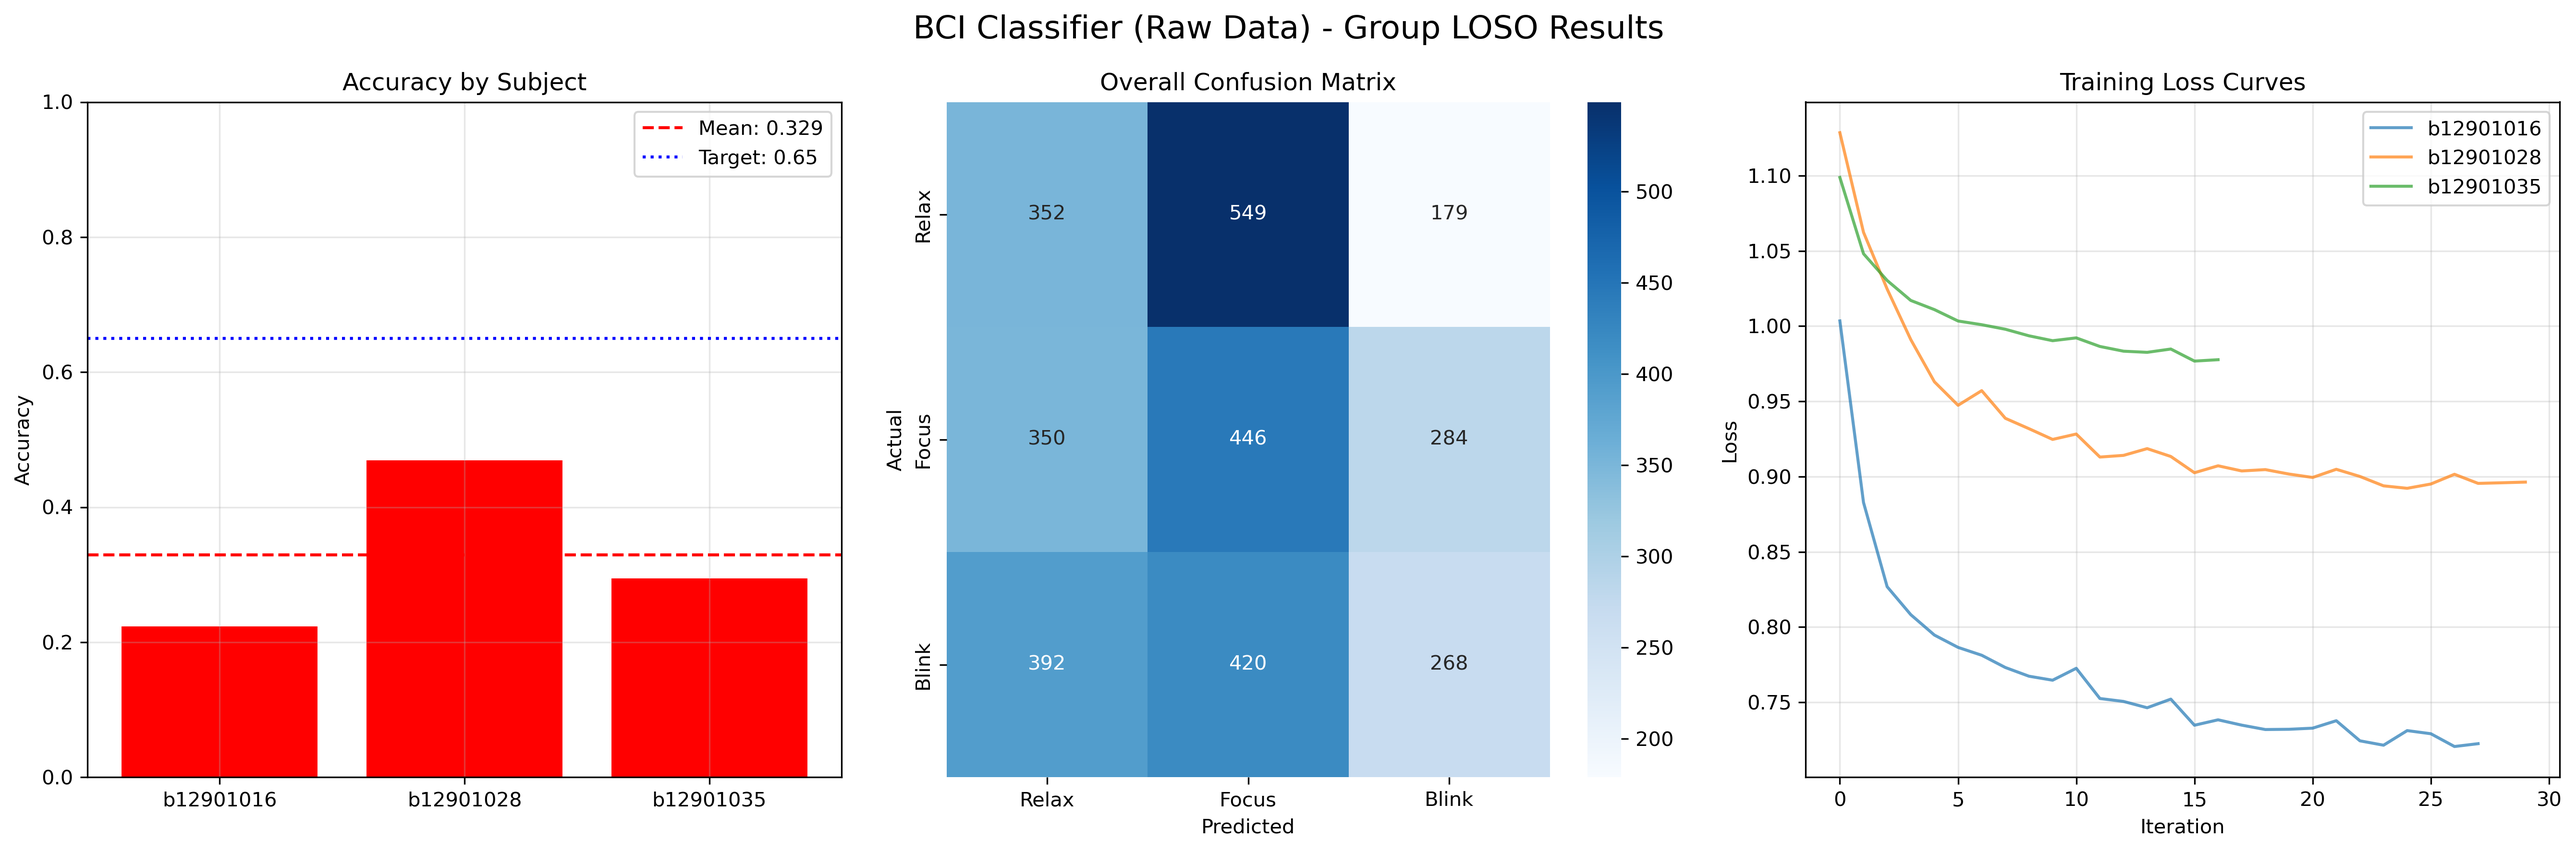
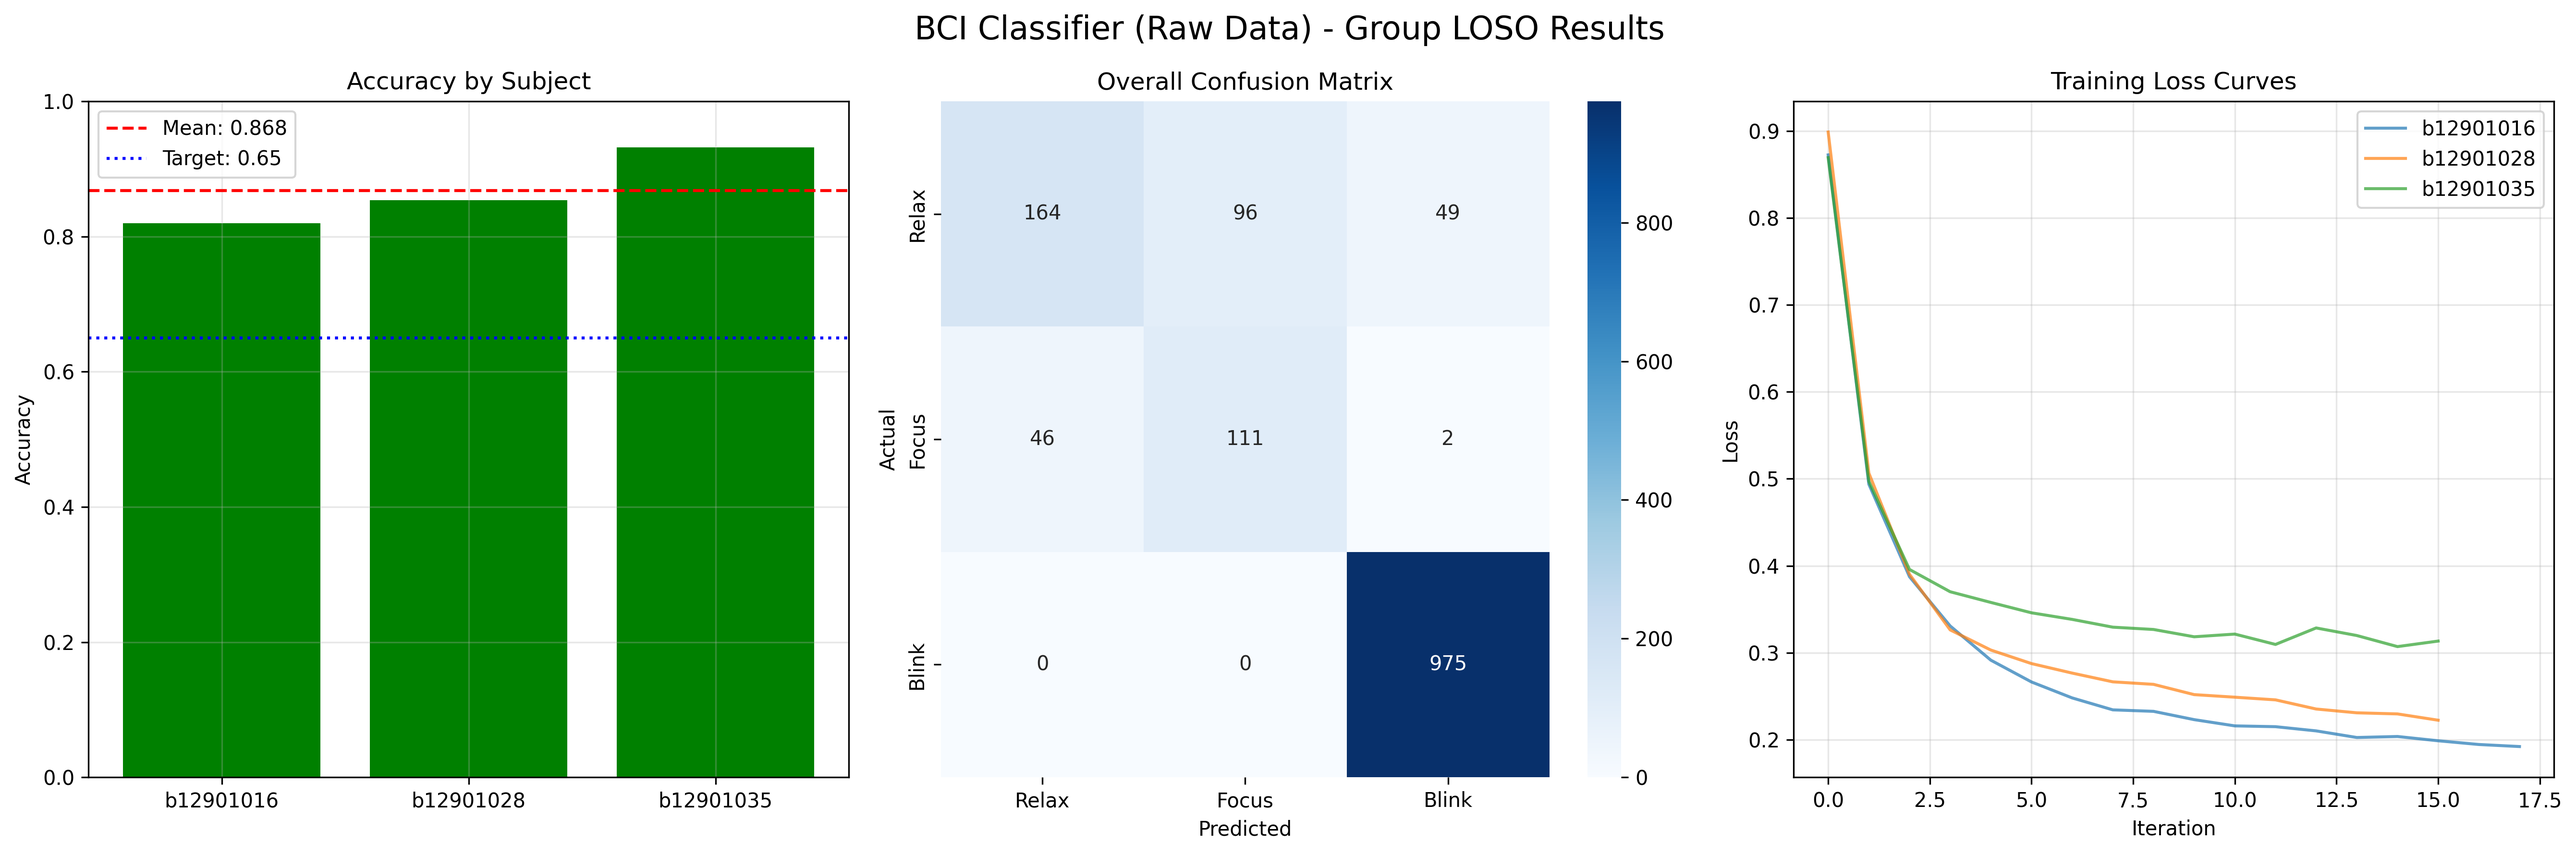
enhancing relax/focus accuracy by: log beta_alpha_ratio; more relax training data; 'Relax' if prob > 0.37

diff --git a/main.py b/main.py
@@ -45,7 +45,7 @@ class Config:
     VALIDATION_FRACTION = 0.1
     N_ITER_NO_CHANGE = 15
     SAMPLING_RATE = 512                
-    FEATURE_SELECTION = True
+    FEATURE_SELECTION = False
     N_FEATURES_SELECT = 10             # 精簡為 10 個最強比例與複雜度特徵
     RANDOM_STATE = 42
 
@@ -75,10 +75,15 @@ def create_segments(data, segment_length_samples, overlap_samples, task_type):
         peak_amp = np.max(np.abs(segment_filtered))
         
         # === 核心邏輯：依照任務進行智能過濾 ===
-        if task_type in [1, 2]: # Relax 或 Focus
+        if task_type == 1: # Relax
+            # 放寬 Relax 的標準，多收一點資料進來訓練
+            if peak_amp > 1000: 
+                start += step
+                continue 
+        elif task_type == 2: # Focus
             if peak_amp > Config.RF_MAX_THRES:
                 start += step
-                continue # 太大的是雜訊，丟棄
+                continue
                 
         elif task_type == 3:    # Blink
             # 如果這個小視窗內沒有出現足夠大的突波，代表它切到了「沒眨眼」的空白期
@@ -122,7 +127,7 @@ def extract_features(segments):
         rel_beta  = beta / total_power
         
         # 專注/放鬆黃金比例
-        beta_alpha_ratio = beta / (alpha + 1e-9)
+        beta_alpha_ratio = np.log10((beta / (alpha + 1e-9)) + 1)
         
         # 3. 輔助特徵 (主要為了完美保留 Blink 的高辨識度)
         kurt = kurtosis(seg)
@@ -216,10 +221,26 @@ class EnhancedBCIClassifier:
     def predict(self, X):
         X_scaled = self.scaler.transform(X)
         X_selected = self.feature_selector.transform(X_scaled) if self.feature_selector else X_scaled
-        raw_preds = self.model.predict(X_selected)
-        if len(raw_preds) > 5:
-            return signal.medfilt(raw_preds, kernel_size=5) 
-        return raw_preds
+        
+        # 1. 取得三個類別的機率 [Relax(0), Focus(1), Blink(2)]
+        probs = self.model.predict_proba(X_selected)
+        
+        predictions = np.zeros(len(X), dtype=int)
+        
+        # 2. 客製化門檻邏輯
+        for i in range(len(X)):
+            # 只要 Relax 的機率超過 0.35 (不用等到 0.5 或最高)，就判定為 Relax
+            if probs[i, 0] > 0.37:  
+                predictions[i] = 0
+            else:
+                # 剩下的再讓 Focus 和 Blink 去比誰機率高
+                # np.argmax(probs[i, 1:]) 會回傳 0(對應Focus) 或 1(對應Blink)，所以要 +1
+                predictions[i] = np.argmax(probs[i, 1:]) + 1
+                
+        # 3. 平滑化
+        if len(predictions) > 5:
+            return signal.medfilt(predictions, kernel_size=11) 
+        return predictions
 
 def leave_one_subject_out_validation():
     print("\nStarting Leave-One-Subject-Out (LOSO) Cross-Validation...")
@@ -245,38 +266,44 @@ def leave_one_subject_out_validation():
     return results
 
 def plot_results(results):
+    if results is None: return
     fig, axes = plt.subplots(1, 3, figsize=(18, 6))
-    fig.suptitle('BCI Classifier - Complexity & Relative Power Strategy', fontsize=16)
+    fig.suptitle('BCI Classifier (Raw Data) - Group LOSO Results', fontsize=16)
     
-    axes[0].bar(results['subject_names'], results['accuracies'], color='orange')
-    axes[0].axhline(y=np.mean(results['accuracies']), color='r', linestyle='--', label=f'Mean: {np.mean(results["accuracies"]):.3f}')
-    axes[0].axhline(y=0.65, color='b', linestyle=':', label='Target 0.65')
-    axes[0].set_ylim(0, 1)
+    # 1. Accuracy distribution
+    subject_names = results['subject_names']
+    axes[0].bar(subject_names, results['accuracies'], 
+                color=['green' if acc >= 0.7 else 'orange' if acc >= 0.65 else 'red' for acc in results['accuracies']])
     axes[0].set_title('Accuracy by Subject')
     axes[0].set_ylabel('Accuracy')
+    axes[0].axhline(y=np.mean(results['accuracies']), color='r', linestyle='--', label=f'Mean: {np.mean(results["accuracies"]):.3f}')
+    axes[0].axhline(y=0.65, color='blue', linestyle=':', label='Target: 0.65')
     axes[0].legend()
     axes[0].grid(True, alpha=0.3)
+    axes[0].set_ylim(0, 1)
     
+    # 2. Overall confusion matrix
     total_cm = np.sum(results['confusion_matrices'], axis=0)
-    sns.heatmap(total_cm, annot=True, fmt='d', cmap='Blues', ax=axes[1],
-                xticklabels=['Relax', 'Focus', 'Blink'], yticklabels=['Relax', 'Focus', 'Blink'])
+    sns.heatmap(total_cm, annot=True, fmt='d', cmap='Blues',
+                xticklabels=['Relax', 'Focus', 'Blink'], yticklabels=['Relax', 'Focus', 'Blink'], ax=axes[1])
     axes[1].set_title('Overall Confusion Matrix')
     axes[1].set_xlabel('Predicted')
     axes[1].set_ylabel('Actual')
     
-    for i, lc in enumerate(results['loss_curves']): 
-        axes[2].plot(lc, alpha=0.7, label=results['subject_names'][i])
-    axes[2].set_title('Training Loss Curves')
-    axes[2].set_xlabel('Iteration')
-    axes[2].set_ylabel('Loss')
-    if len(results['subject_names']) <= 10: 
+    # 3. Training loss curves
+    valid_loss_curves = [lc for lc in results['loss_curves'] if len(lc) > 0]
+    if valid_loss_curves:
+        for i, loss_curve in enumerate(valid_loss_curves):
+            axes[2].plot(loss_curve, alpha=0.7, label=subject_names[i])
+        axes[2].set_title('Training Loss Curves')
+        axes[2].set_xlabel('Iteration')
+        axes[2].set_ylabel('Loss')
         axes[2].legend()
-    axes[2].grid(True, alpha=0.3)
+        axes[2].grid(True, alpha=0.3)
     
     plt.tight_layout()
-    plt.savefig('bci_results_optimized.png', dpi=300)
+    plt.savefig('bci_results_raw_data.png', dpi=300, bbox_inches='tight')
     plt.show()
-
 
 def main():
     print("BCI EEG Classification - Group Evaluation")
